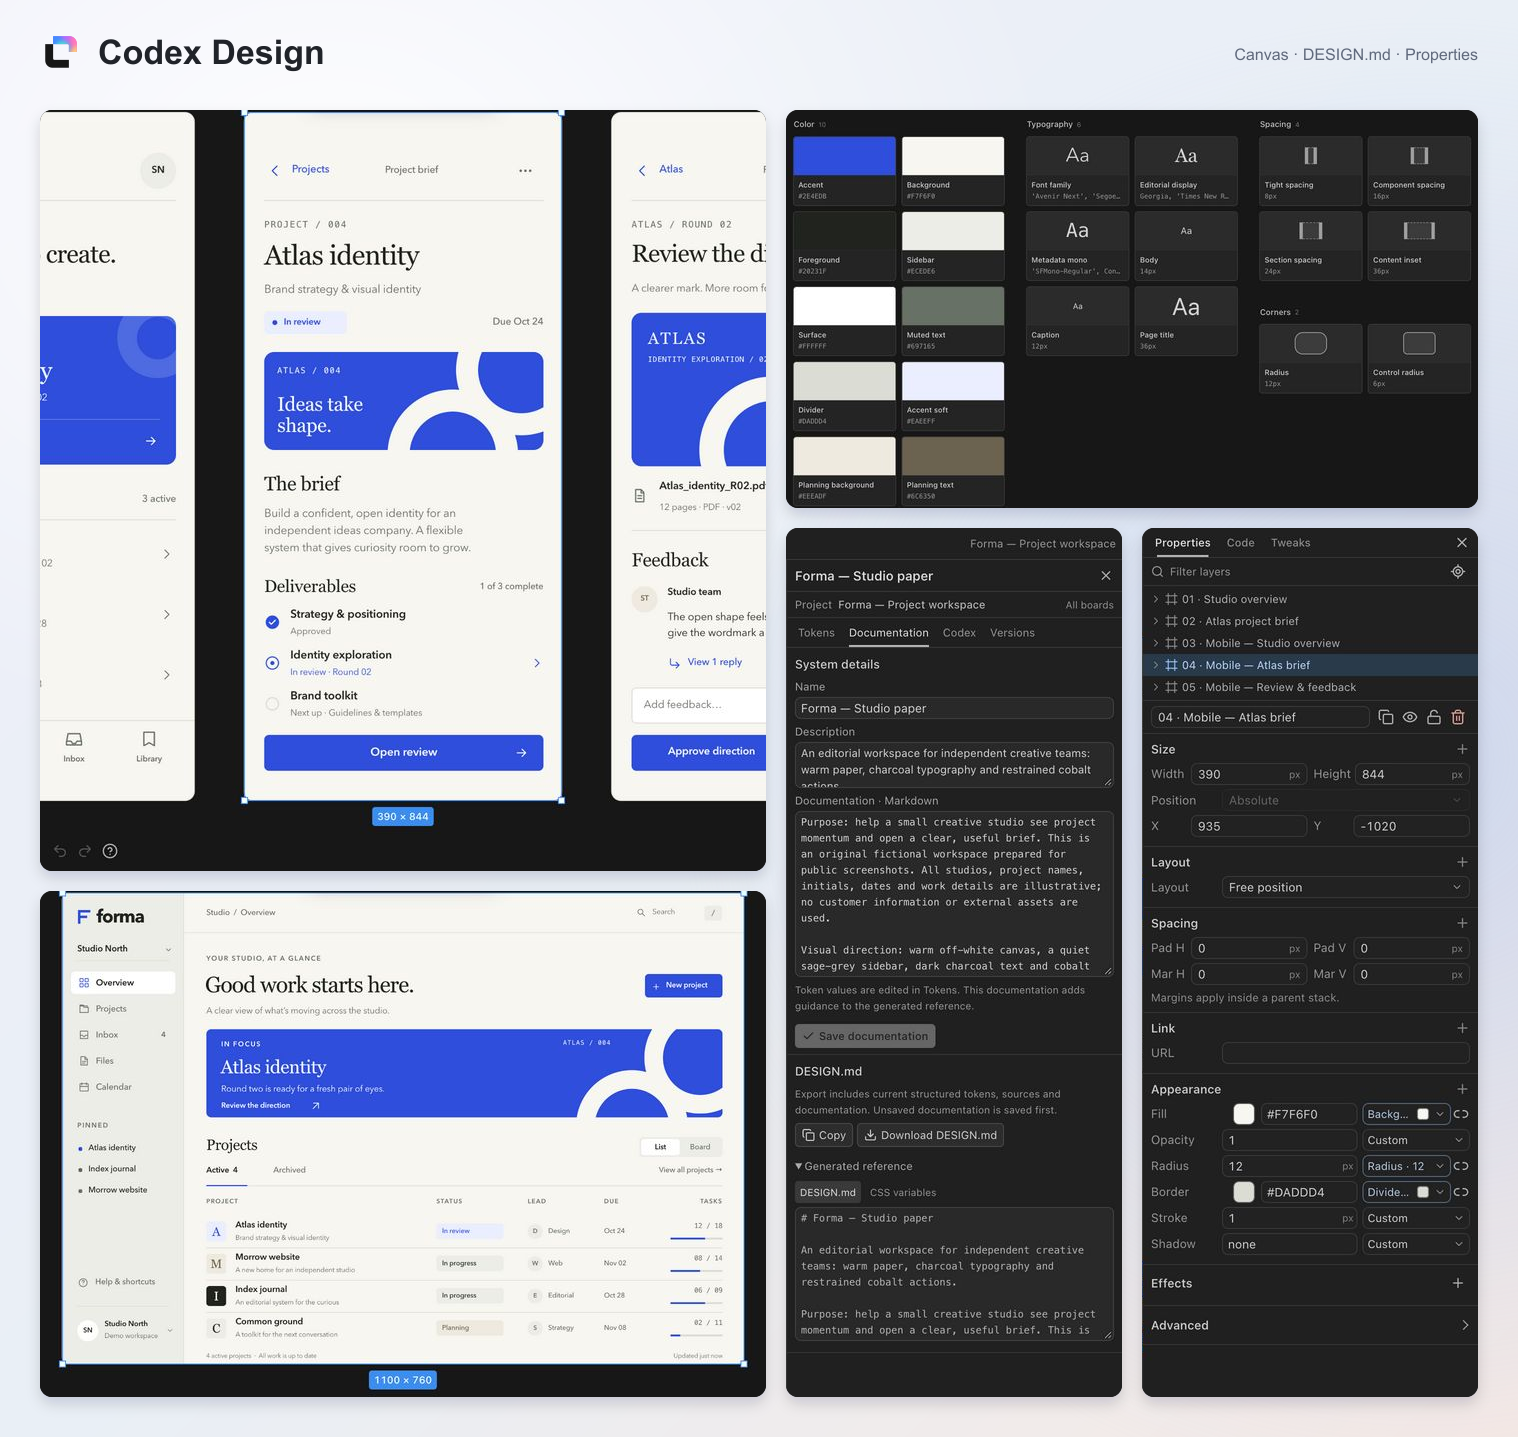
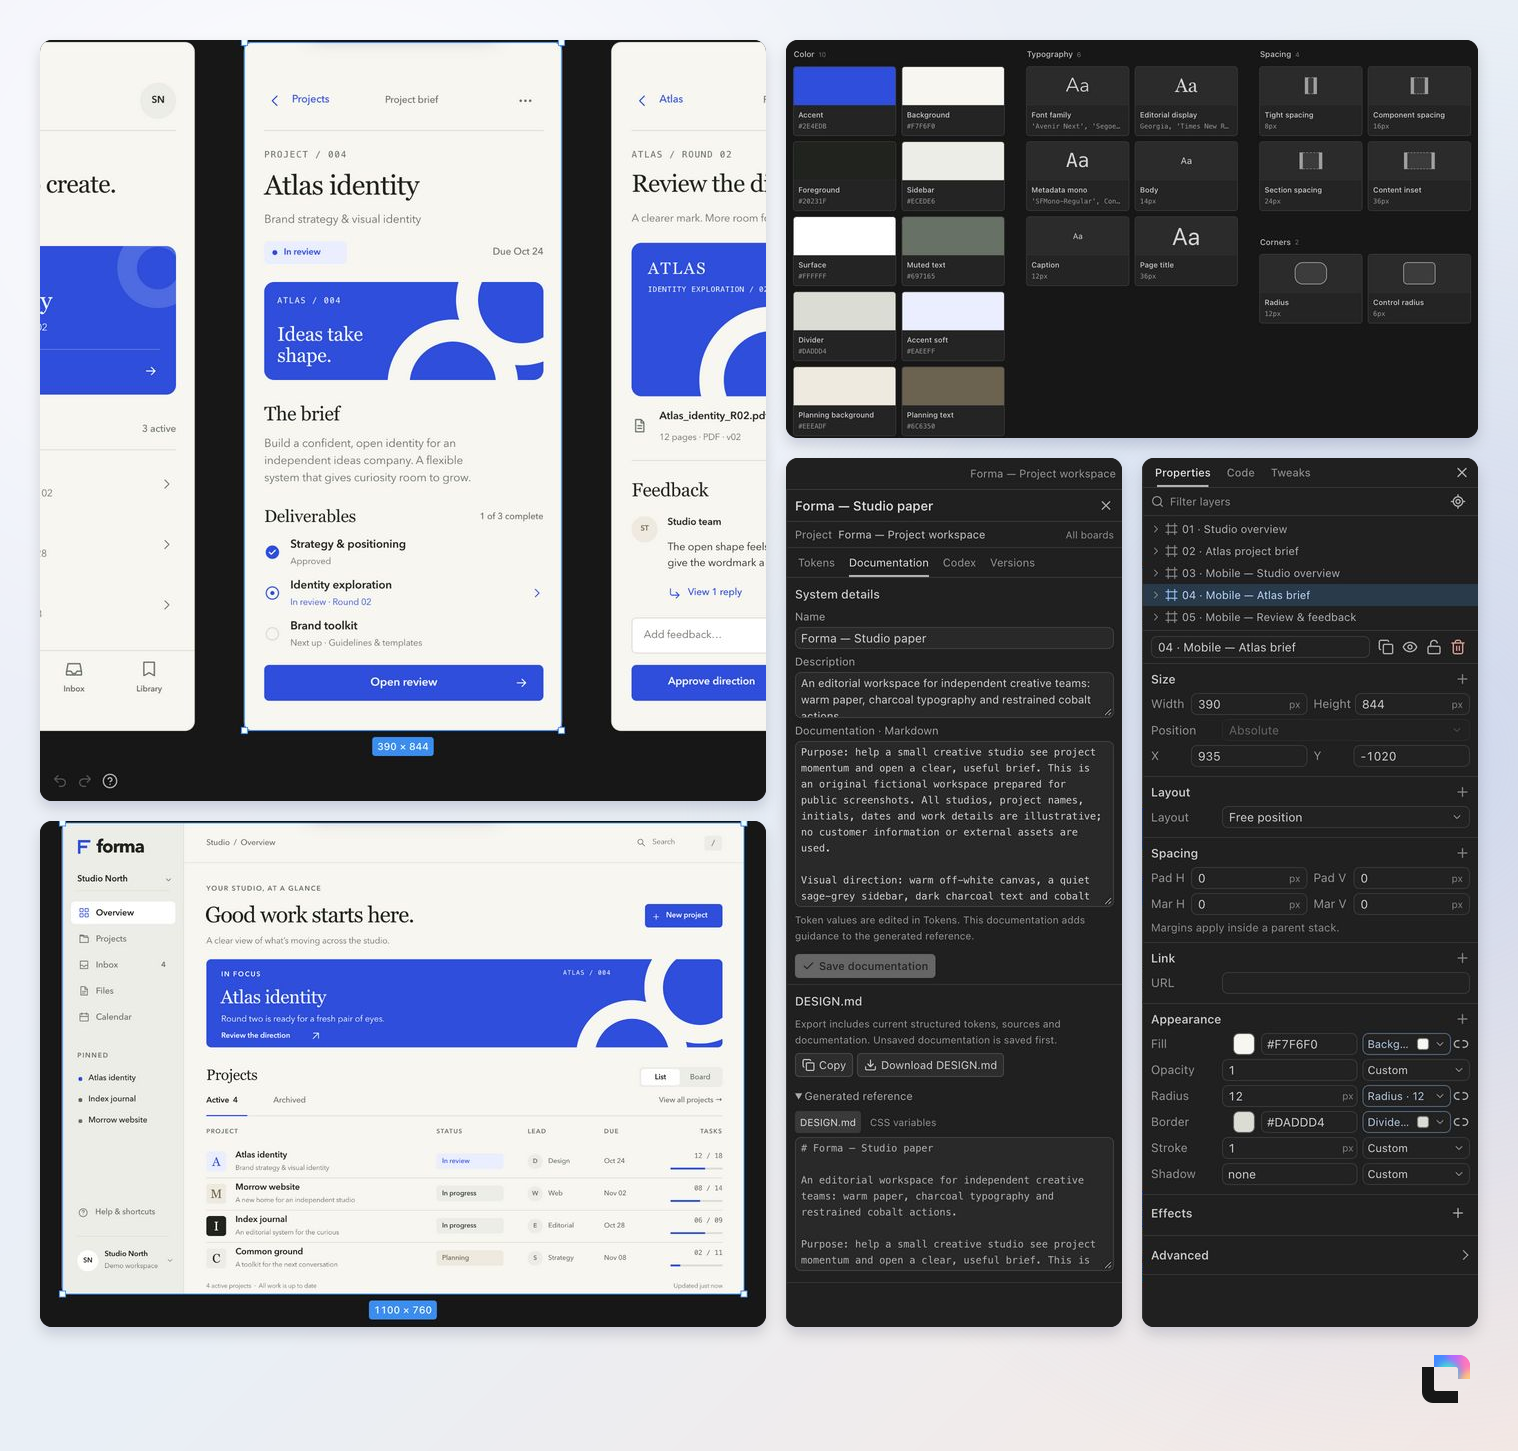
Move promo branding to the bottom right

diff --git a/docs/refinements.md b/docs/refinements.md
@@ -260,6 +260,6 @@ README ChatGPT/Codex and MCP Apps badges now use self-contained SVGs with their 
 
 ## README promo overview — October 14, 2026
 
-Replaced the distant single-board screenshot with one 1,518 × 1,437 PNG combining five live Forma captures: a mobile canvas close-up, the desktop workspace, structured design tokens, Documentation/DESIGN.md and the complete Properties panel. The layout has equal 20-pixel gaps, 40-pixel outer margins, a soft neutral gradient, rounded cards and the existing color SVG identity. The README links to the full-size image.
+Replaced the distant single-board screenshot with one 1,518 × 1,451 PNG combining five live Forma captures: a mobile canvas close-up, the desktop workspace, structured design tokens, Documentation/DESIGN.md and the complete Properties panel. The layout has equal 20-pixel gaps, a soft neutral gradient and rounded cards. The existing color SVG logo sits alone at the bottom right; the top text is removed. The README links to the full-size image.
 
-The user chose pixel-exact direct composition. The shipped image uses the original capture pixels with cropping and corner masks only; screenshots are neither rescaled nor redrawn, and AI-styled drafts are not included. The mobile canvas was captured at 82% zoom, desktop at 62%, and the token canvas at 67%; the connected pane provides 726 × 901 source captures. The final PNG is 952,428 bytes. Inspected the complete composition and confirmed DESIGN.md, Effects and Advanced remain visible. This is documentation-only, with no application build, plugin refresh, test, dependency or design-document mutation. No runtime performance improvement is claimed.
+The user chose pixel-exact direct composition. The shipped image uses the original capture pixels with cropping and corner masks only; screenshots are neither rescaled nor redrawn, and AI-styled drafts are not included. The mobile canvas was captured at 82% zoom, desktop at 62%, and the token canvas at 67%; the connected pane provides 726 × 901 source captures. The final PNG is 950,056 bytes. Inspected the complete composition and confirmed DESIGN.md, Effects and Advanced remain visible. This is documentation-only, with no application build, plugin refresh, test, dependency or design-document mutation. No runtime performance improvement is claimed.
